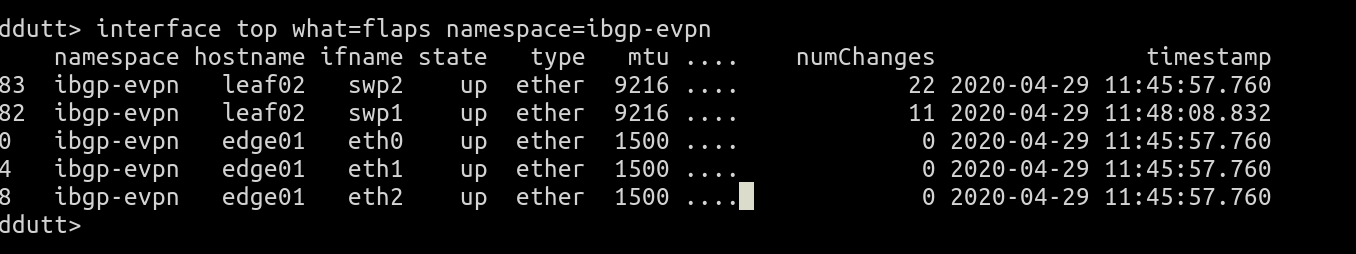
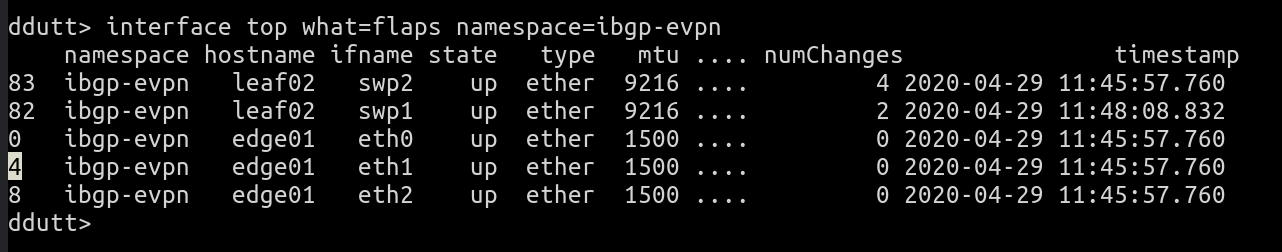
Edited output of command plus added comment about it

diff --git a/_posts/2020-05-01-10qa-suzieq.md b/_posts/2020-05-01-10qa-suzieq.md
@@ -29,7 +29,7 @@ And see that the namespace eos has no VXLAN (hostsWithVxlanCnt is 0) while ibgp-
 
 With Suzieq, you can easily find out if there are flaky interfaces via the *interface summarize* command. We showed the output of *interface summarize* in the previous question. That output shows that the statistic, *ifChangesStat*, for the namespace ibgp-evpn, has a non-zero max value. In any summarize output, every variable that ends with "Stat" is a list of three values that summarizes a particular metric across all the hosts in that namespace. The three variables are min, max and median values of the metric. 
 ![Flaky interfaces](/assets/images/2020-05-01/10qa-Fig2a.png?raw=true)
-In this case, for the metric *ifChangesStat*, the output says that for the ibgp-evpn namespace, there are one or more interfaces with 22 flaps, while the median indicates that the many interfaces have no changes at all, as it should be. To dig deeper into which interface(s) have this maximum flaps, you can use *interface top* as follows:
+In this case, for the metric *ifChangesStat*, the output says that for the ibgp-evpn namespace, there are a maximum of 6 interface flaps, while the median indicates that the many interfaces have no changes at all, as it should be. To dig deeper into which interface(s) have this maximum flaps, you can use *interface top* as follows:
 
 `interface top what=flaps namespace=ibgp-evpn`
 
@@ -41,7 +41,7 @@ This shows that for some reason interfaces swp2 and swp1 on leaf02 have flapped 
 
 This shows the output as follows:
 ![Interface Show](/assets/images/2020-05-01/10qa-Fig4.png)
-It shows that a single up-down-up transition at 11:48:08 resulted in the flap count going up by 11. We started capturing statistics around 11:45 and right away at that point, swp2 was showing 22 changes. This indicates that whatever the changes, they happened before the data gathering began. 
+It shows that a single up-down-up transition at 11:48:08 resulted in the flap count going up by 2. We started capturing statistics around 11:45 and right away at that point, swp2 was showing 4 changes. This indicates that whatever the changes, they happened before the data gathering began. 
 
 This output indicates that the counting of flaps seems really off. In reality, we found a silly bug here (string concat instead of integer add). There were only 1 or 2 changes, not 11 or 22. Bug will be fixed in the next release in a week or so.
 
@@ -106,3 +106,5 @@ It is possible to see more than one entry by changing the value of count. By def
 Before we end this post, an answer to a trivia question. A reader wrote that the original CCR song whose song by the same name is what this software is named after had a capital Q i.e. it was spelled SuzieQ, not Suzieq. He's right. However, we didn't say that this program was the exact copy of that name. Asking users to use the shift key to do anything is a pain and so I went without the final Q.
 
 We'll be following up with more blog posts about usage and the design choices made in Suzieq, at a rough clip of a post every day or two for the next week or so. We should've caught a bunch of niggling errors in the process and will release a second version of Suzieq very shortly after.
+
+Edit: The display of interface top has been edited because of a bug, which has been fixed via [commit 7e8a0bf](https://github.com/netenglabs/suzieq/commit/7e8a0bf52bab75b0d5d5669cea897d97e651fb6a)
